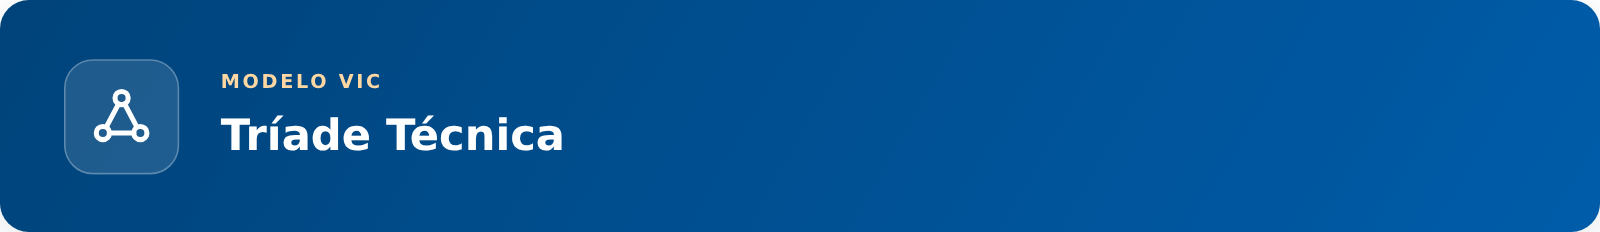
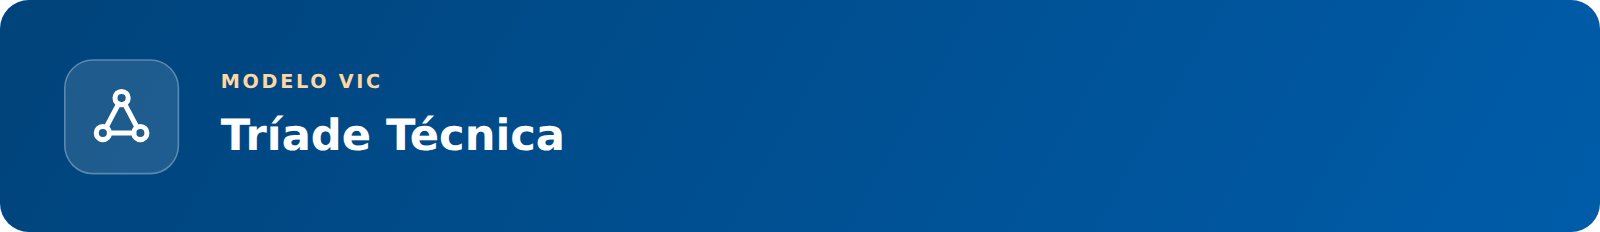
Keep the rounded corners transparent, and match the covers' height
Both generators photographed their block while the rest of the page was still
mounted. Positioning it at 0,0 put it over the site's header and nav, which are
opaque white slabs, so each rounded corner captured that white instead of
transparency -- invisible against a white page, a white notch against a coloured
one. The page is now stripped to the block alone before the crop; sampled corner
pixels read 0,0,0,0, the same as the existing diretriz covers.

The rule frame also drops from 360 to 232px tall, the height the diretriz and
section covers already use, so the blocks on a page share one measure. The
hero's box-shadow goes too: it left a faint dark halo in the corners that the
13 covers do not have.

Claude-Session: https://claude.ai/code/session_019NmiVkfk9ZXceb87ffsC4p

Changed region(s): [[0.25, 0.5431, 0.3438, 0.6336], [0.1562, 0.5431, 0.2188, 0.6336], [0.125, 0.3319, 0.25, 0.3922]]

diff --git a/prototypes/versionamento-codigo/sharepoint/gerar-fundo-regra.js b/prototypes/versionamento-codigo/sharepoint/gerar-fundo-regra.js
@@ -17,11 +17,11 @@ const RAIZ = path.resolve(__dirname, '..');
 const SAIDA = __dirname;
 const ORIGEM = 'diretriz-4.html';
 
-// O bloco é composto em 800x180 e sai a 2x, sem fator fracionário: assim a borda
-// de 1px e o filete de 5px caem em pixel inteiro. 180px de altura cabem cinco
-// linhas do corpo de 16.5px — o bloco do protótipo usa duas ou três, e a folga
-// é o espaço que o texto digitado no SharePoint vai ocupar.
-const CSS = [800, 180];
+// O bloco é composto em 800x116 e sai a 2x, sem fator fracionário: assim a borda
+// de 1px e o filete de 5px caem em pixel inteiro. 232px de altura é a mesma das
+// capas de diretriz e de seção, para que os blocos da página fiquem na mesma
+// medida — e cabem as duas ou três linhas que a regra do protótipo ocupa.
+const CSS = [800, 116];
 const K = 2;
 
 const VERSOES = [
@@ -49,10 +49,14 @@ const VERSOES = [
       document.body.style.background = 'transparent';
 
       const regra = document.querySelector('.regra');
-      // fixo em 0,0 e acima do cabeçalho: numa posição fracionária o recorte
-      // arredonda para fora, e o header do site é fixo e entraria no quadro
+      // O resto da página sai de cena. Sobrepor não basta: o cabeçalho e o menu
+      // são chapas brancas opacas, e o canto arredondado revelaria esse branco
+      // em vez de transparência — o que só aparece quando a imagem é usada sobre
+      // fundo colorido. Os estilos de .regra não dependem de nenhum ancestral.
+      document.body.replaceChildren(regra);
+      // fixo em 0,0: numa posição fracionária o recorte arredonda para fora
       Object.assign(regra.style, {
-        position: 'fixed', top: '0', left: '0', zIndex: '9999',
+        position: 'fixed', top: '0', left: '0',
         width: `${w}px`, height: `${h}px`, boxSizing: 'border-box', margin: '0',
       });
       // o texto da regra é o que será digitado no SharePoint; aqui sobra a moldura

diff --git a/prototypes/versionamento-codigo/sharepoint/gerar-capas-secoes.js b/prototypes/versionamento-codigo/sharepoint/gerar-capas-secoes.js
@@ -63,12 +63,20 @@ function glifoDe(arquivo) {
       document.documentElement.style.background = 'transparent';
       document.body.style.background = 'transparent';
       const hero = document.querySelector('.page-hero');
+      // O resto da página sai de cena. Sobrepor com z-index não basta: o
+      // cabeçalho e o menu são chapas brancas opacas, e o canto arredondado
+      // revelaria esse branco em vez de transparência — o que só aparece quando
+      // a capa é usada sobre fundo colorido. Os estilos de .page-hero não
+      // dependem de nenhum ancestral.
+      document.body.replaceChildren(hero);
       // fixo em 0,0: numa posição fracionária o recorte arredonda para fora e a
-      // capa sai com um ou dois pixels a mais que as 1600x232 já existentes.
-      // O z-index tira da frente o cabeçalho e o menu, que também são fixos.
+      // capa sai com um ou dois pixels a mais que as 1600x232 já existentes
       Object.assign(hero.style, {
-        position: 'fixed', top: '0', left: '0', zIndex: '9999',
+        position: 'fixed', top: '0', left: '0',
         width: `${w}px`, height: `${h}px`, boxSizing: 'border-box',
+        // a sombra do .page-hero deixaria um halo escuro nos cantos, que as 13
+        // capas de diretriz não têm — quem projeta a sombra é a página, não a arte
+        boxShadow: 'none',
       });
       if (glifo) {
         hero.querySelector('.ph-num').innerHTML =

diff --git a/prototypes/versionamento-codigo/sharepoint/GUIA-MONTAGEM-SHAREPOINT.md b/prototypes/versionamento-codigo/sharepoint/GUIA-MONTAGEM-SHAREPOINT.md
@@ -92,8 +92,8 @@ que é a fonte padrão do SharePoint.
    | `sharepoint/cartoes-diretrizes-titulo/` | os 13 cartões brancos de `diretrizes.html` (800 × 450), com ícone, `DIRETRIZ N` e o título, sem o link “Abrir” | **Links Rápidos** no layout **Bloco**, na página Diretrizes |
    | `sharepoint/cartoes-diretrizes-numero/` | os mesmos 13 só com ícone e `DIRETRIZ N` (800 × 450) | quando o título vem do próprio web part |
    | `sharepoint/icones-diretrizes/` | os 13 ícones das diretrizes soltos (240 × 240) | **Links Rápidos** nos layouts **Compacto** e **Lista** |
-   | `sharepoint/regra-fundo-1600x360.png` | a moldura do bloco `.regra` vazia — gradiente, borda e filete azul | **fundo de seção**, com o texto da regra digitado por cima |
-   | `sharepoint/regra-fundo-icone-1600x360.png` | a mesma moldura com o selo azul à esquerda | idem; o texto precisa recuar para não cobrir o selo |
+   | `sharepoint/regra-fundo-1600x232.png` | a moldura do bloco `.regra` vazia — gradiente, borda e filete azul, na altura das capas | **fundo de seção**, com o texto da regra digitado por cima |
+   | `sharepoint/regra-fundo-icone-1600x232.png` | a mesma moldura com o selo azul à esquerda | idem; o texto precisa recuar para não cobrir o selo |
 
    > ⚠ O layout do web part **Links Rápidos** decide o formato da imagem. No
    > layout **Bloco**, o item é um cartão com miniatura **em paisagem** e o
